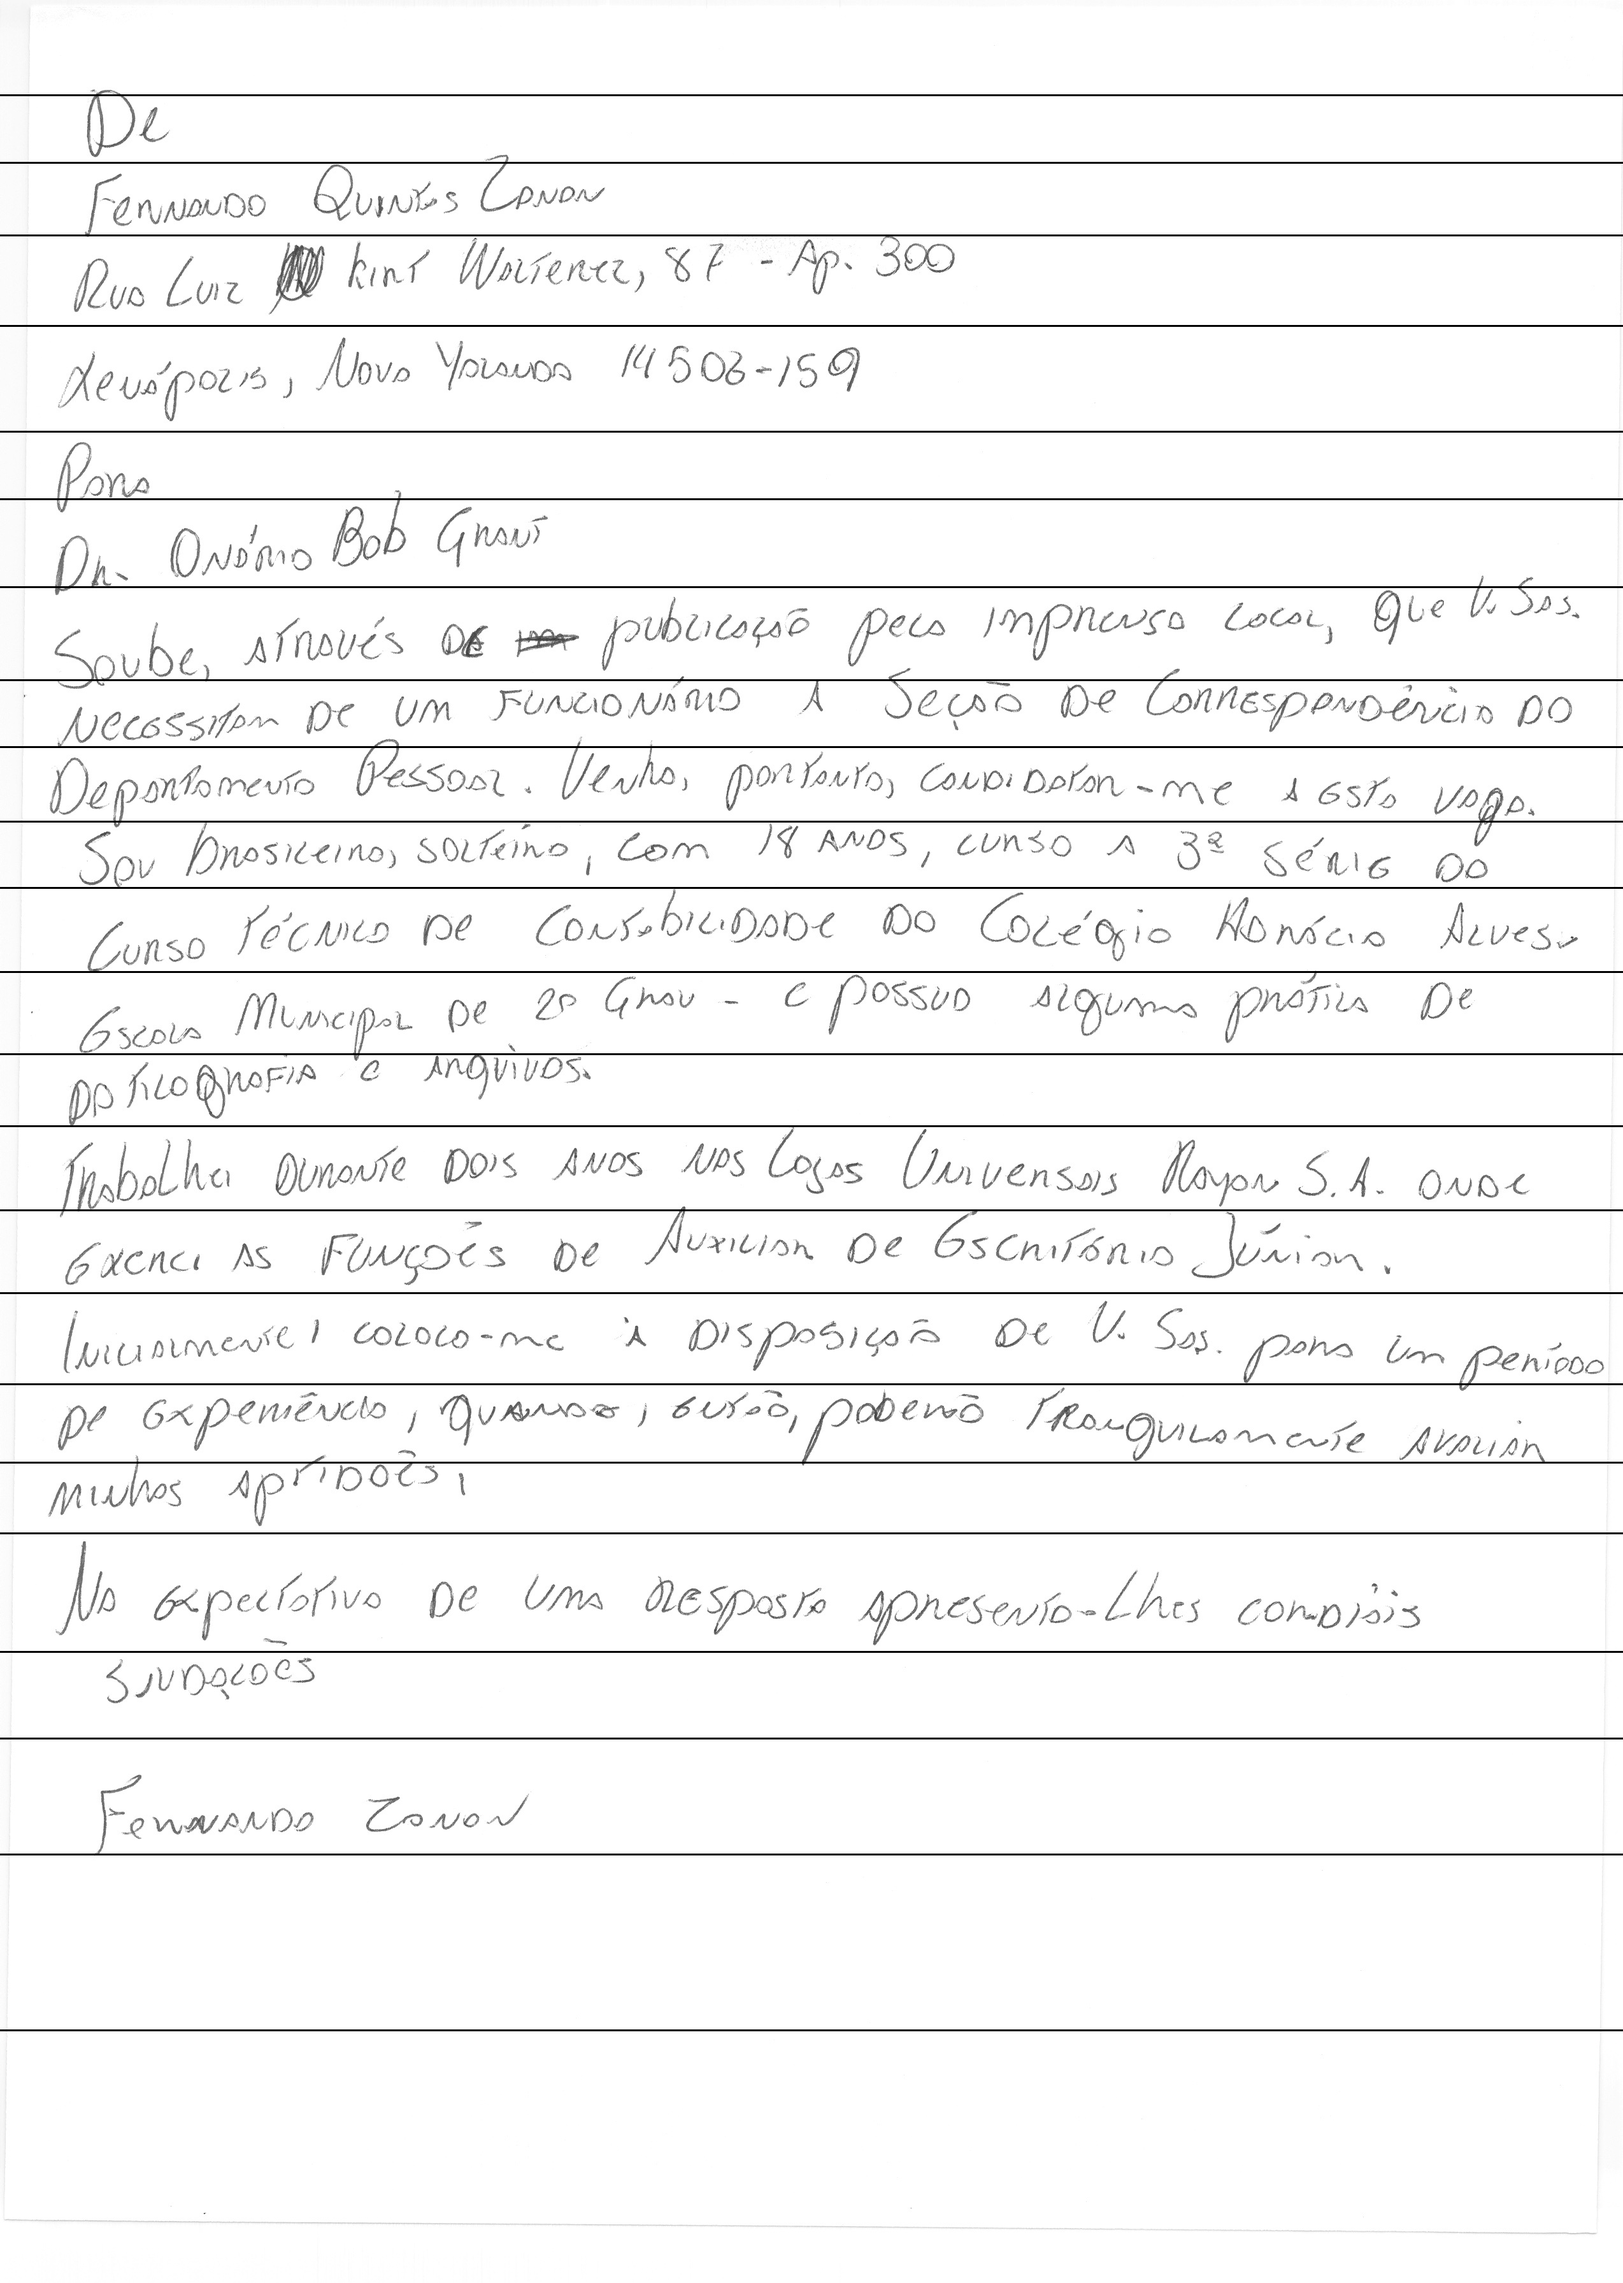
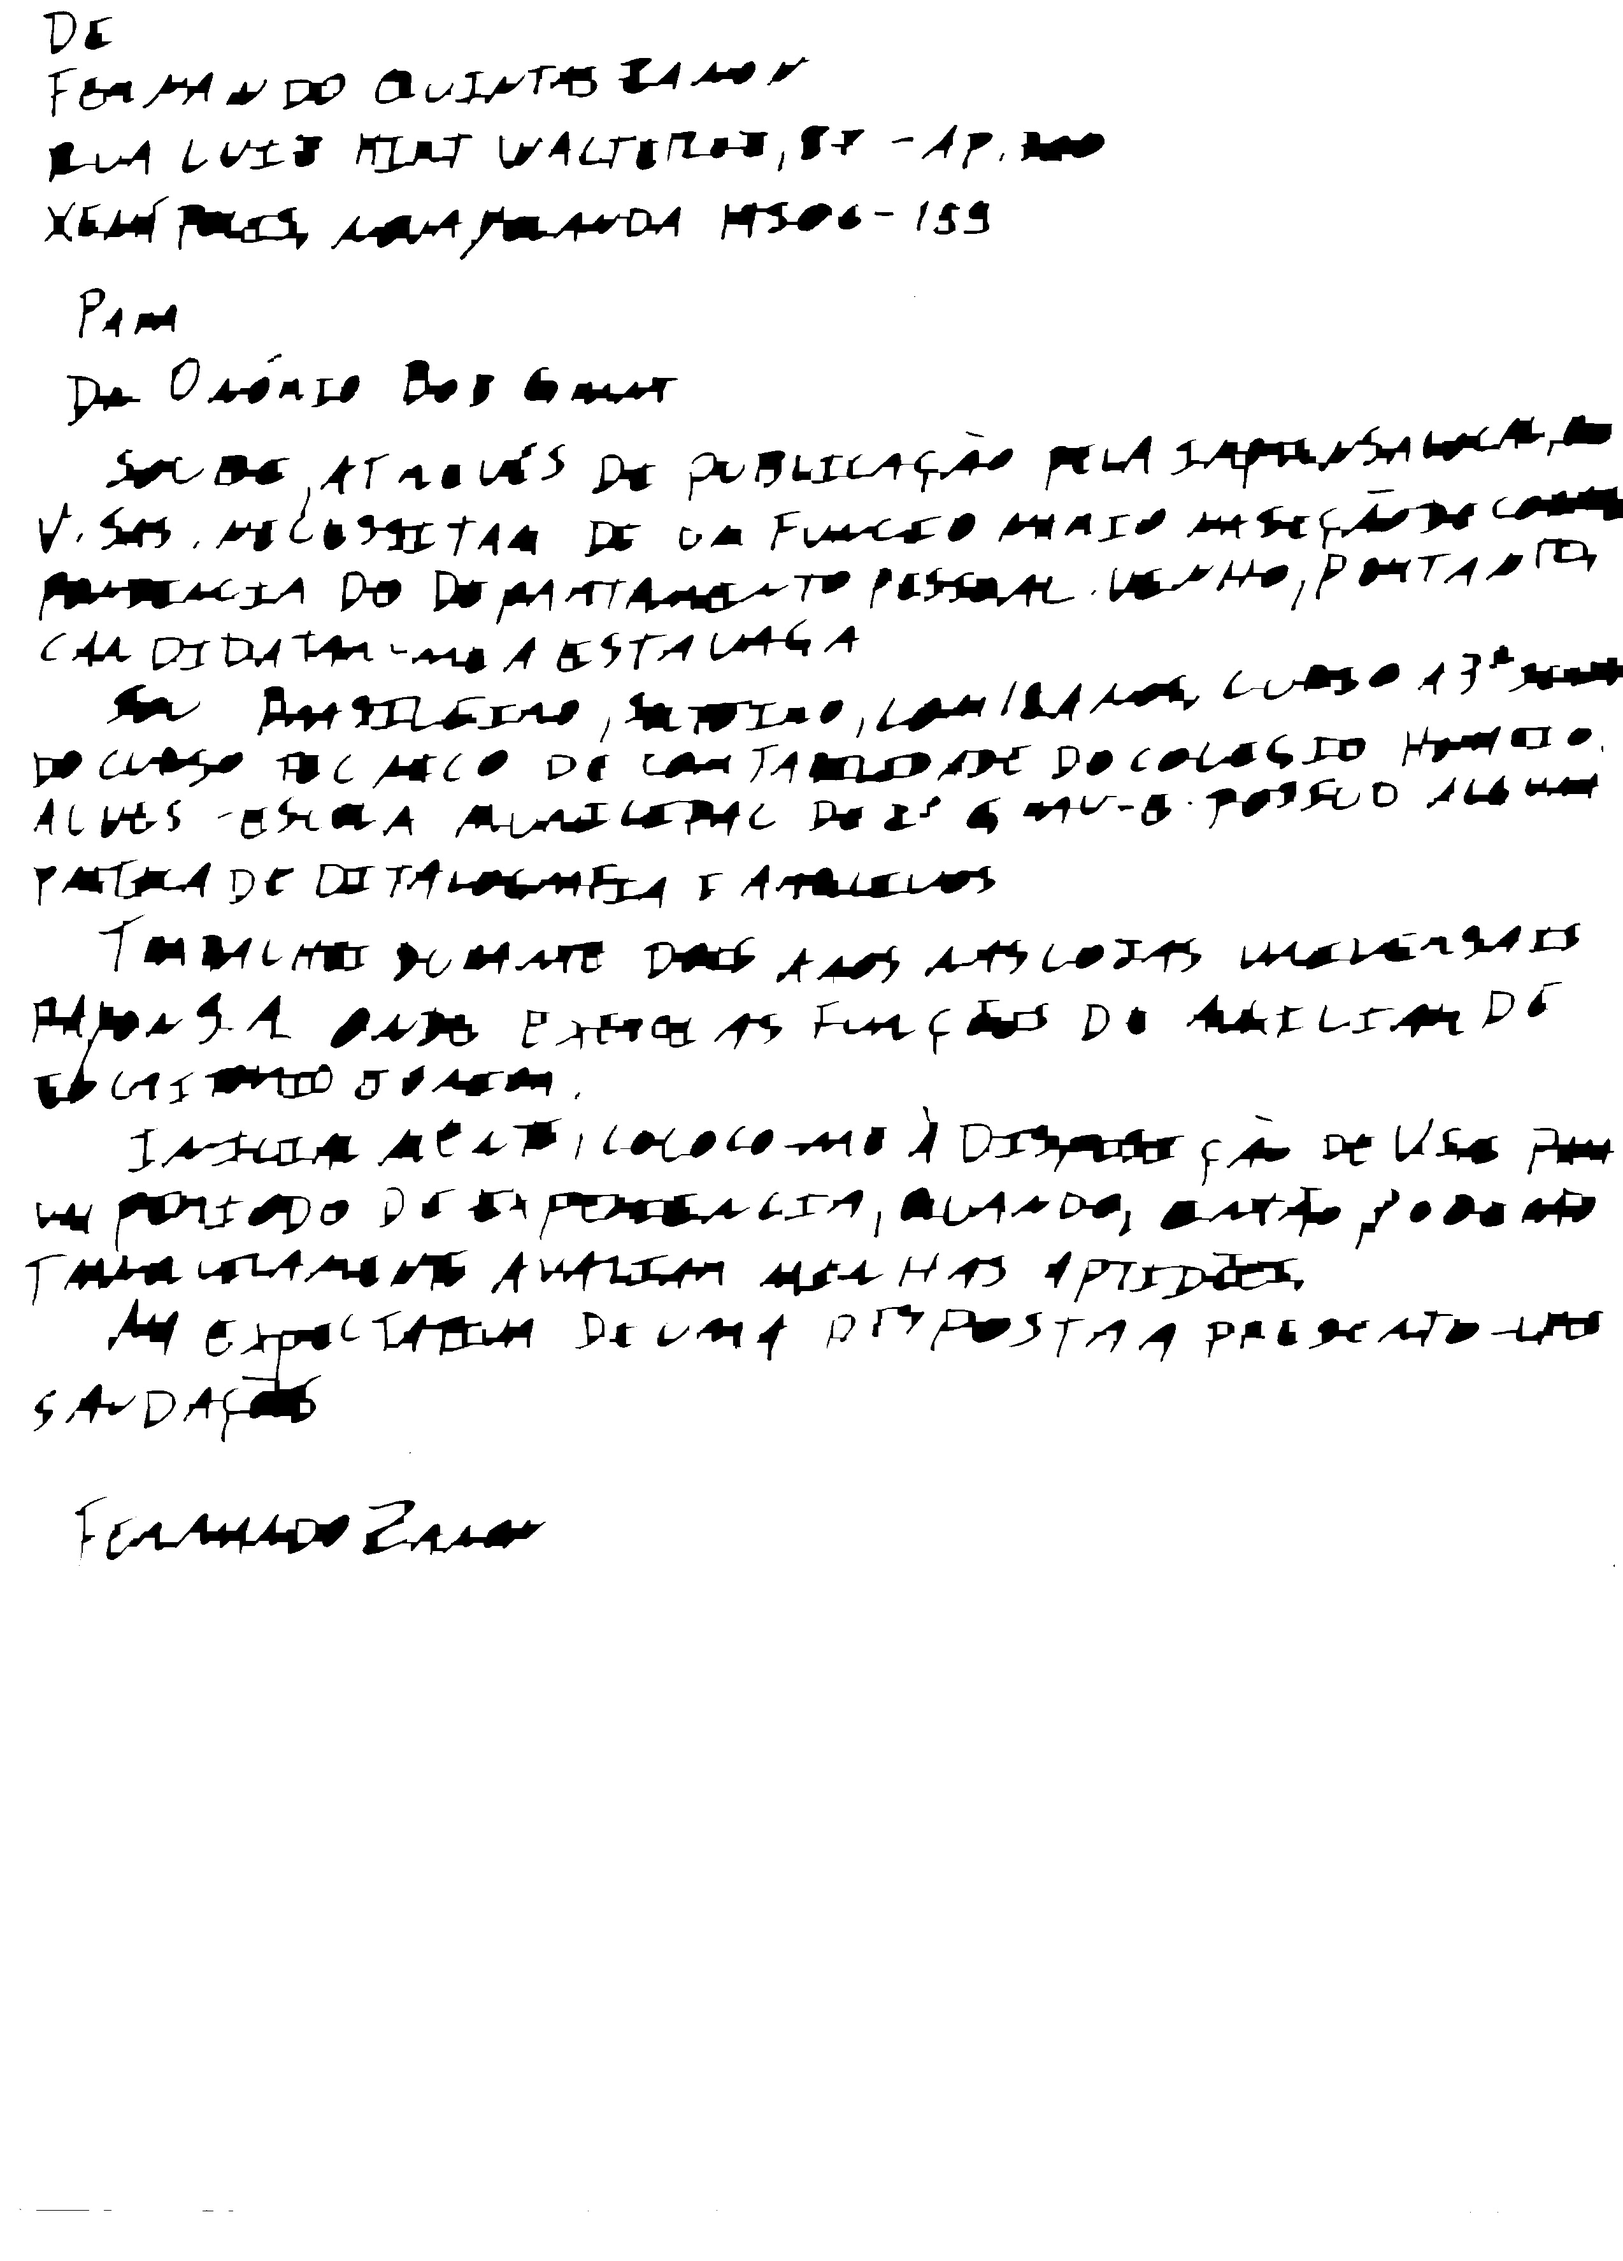
[main] Added image rotation fixes

diff --git a/5-assignment/cartas.py b/5-assignment/cartas.py
@@ -4,6 +4,7 @@ import cv2
 import numpy as np
 import matplotlib.pyplot as plt
 import scipy.signal as sg
+import scipy.ndimage as nd
 
 
 def processImageName(image_name):
@@ -33,35 +34,55 @@ def getImagesInfo(dir_path):
     return letters
 
 
+def determine_score(arr, angle):
+    data = nd.interpolation.rotate(arr, angle, reshape=False, order=0)
+    histogram = np.sum(data, axis=1, dtype=float)
+    score = np.sum((histogram[1:] - histogram[:-1]) ** 2, dtype=float)
+    return score
+
+
+def correct_rotation(image, delta=0.8, limit=5):
+    _, thresh = cv2.threshold(
+        image, 0, 255, cv2.THRESH_BINARY_INV + cv2.THRESH_OTSU)
+
+    scores = []
+    angles = np.arange(-limit, limit + delta, delta)
+    for angle in angles:
+        score = determine_score(thresh, angle)
+        scores.append(score)
+
+    best_angle = angles[scores.index(max(scores))]
+
+    (h, w) = image.shape[:2]
+    center = (w // 2, h // 2)
+    M = cv2.getRotationMatrix2D(center, best_angle, 1.0)
+    corrected = cv2.warpAffine(image, M, (w, h), flags=cv2.INTER_CUBIC,
+                               borderMode=cv2.BORDER_REPLICATE)
+
+    return corrected
+
+
 def getImageLines(image, idx):
+    image = correct_rotation(image)
     _, th2 = cv2.threshold(
         image, 0, 255, cv2.THRESH_BINARY + cv2.THRESH_OTSU)
 
     kernel = np.ones((16, 16), np.uint8)
     dilated = cv2.morphologyEx(th2, cv2.MORPH_OPEN, kernel)
-    dilated = cv2.bitwise_not(dilated)
+    #dilated = cv2.bitwise_not(dilated)
 
     # Gets hist on y-axis
-    line_sum = np.sum(th2, axis=1).astype(int).tolist()
-    line_sum = line_sum / np.linalg.norm(line_sum)
+    data = np.sum(dilated, axis=1).astype(int).tolist()
+    data = data / np.linalg.norm(data)
 
     # Gets reference values and threshold
-    median_hist = np.median(line_sum)
-    avg_hist = np.average(line_sum)
-    dvt_hist = np.std(line_sum)
-    var_hist = np.var(line_sum)
+    var_hist = np.var(data)
 
     # Gets histogram peaks
     # Height is the number of words
     # Distance is the height of the line
     peaksPos, _ = sg.find_peaks(
-        line_sum, height=var_hist, distance=100, prominence=var_hist)
-    peaksPos = peaksPos.tolist()
-    peaksPos.pop()
-
-    print("\n\nBefore, After, average, median, std, var")
-    print(len(peaksPos), len(peaksPos), avg_hist,
-          median_hist, dvt_hist, var_hist)
+        data, height=var_hist, distance=100, prominence=var_hist)
 
     height, width = image.shape
     for j in range(height):
@@ -69,10 +90,10 @@ def getImageLines(image, idx):
             for i in range(width):
                 image[j][i] = 0
 
-    cv2.imwrite("./results/image"+str(idx)+".jpg", image)
+    cv2.imwrite("./results/image"+str(idx)+".jpg", dilated)
 
-    # plt.plot(line_sum)
-    # plt.plot(peaksPos, line_sum[peaksPos], "x")
+    # plt.plot(data)
+    #plt.plot(peaksPos, data[peaksPos], "x")
     # plt.show()
 
     return len(peaksPos)
